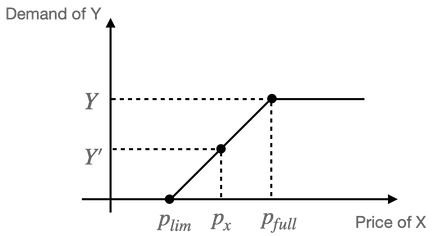
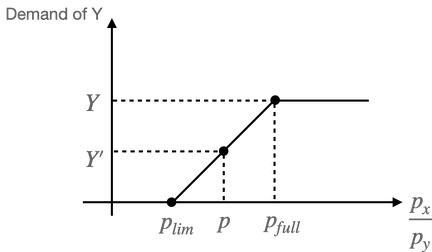
Address PR comments

Changed region(s): [[0.0, 0.0297, 1.0, 0.9788], [0.8125, 0.9195, 1.0, 1.0]]

diff --git a/core/cap-0045.md b/core/cap-0045.md
@@ -327,17 +327,19 @@ Consider a liquidity pool holding assets `X` and `Y` (we will also use `X` and
 `Y` to denote the reserves of those assets). Suppose the market price ratio is
 `p = p(X) / p(Y)`. 
 
+For a constant-product liquidity pool (the only type this proposal is concerned about), the constant-product invariant requires that any transaction within the pool must not reduce the the product of the two reserves (i.e. liquidity).
+
 The liquidity pool starts at equilibrium point `E`, with reserve amounts `X` and `Y` respectively. 
 
 The spot price of asset `X` is the amount of asset `Y` exchanged for infinitesimal quantity of `X`:
 
-<div align="center"><img style="background: white;" src="https://render.githubusercontent.com/render/math?math=p%20%3D%20%5Clim_%7B%5Cdelta%7Bx%7D-%3E0%7D%5Cfrac%7B%5Cdelta%7By%7D%7D%7B%5Cdelta%7Bx%7D%7D"></div>
+<div align="center"><img style="background: white;" src="https://render.githubusercontent.com/render/math?math=p%20%3D%20%5Clim_%7B%5Cdelta%7Bx%7D%5Cto0%7D%5Cfrac%7B%5Cdelta%7By%7D%7D%7B%5Cdelta%7Bx%7D%7D"></div>
 
-Consider the scenario where the market decides on a higher price for `X` than what is manifested in the current equilibrium `E`, the liquidity pool will buy `X` and sell `Y` until a new equilibrium is established (call it `E’`).
+Consider the scenario where the market decides on a lower price for `X` relative to `Y` than what is manifested in the current equilibrium `E`, the liquidity pool will buy `X` and sell `Y` until a new equilibrium is established (call it `E’`).
 
 ![liquidity pool demand buy X sell Y](../contents/cap-0045/CP_liquidity_pool_demand_buyX_sellY.png)
 
-From the constant-product invariant (since we only have constant-product liquidity pools), the pool will buy X sell Y as long as :
+From the constant-product invariant, the pool will buy X sell Y as long as :
 
 <div align="center"><img style="background: white;" src="https://render.githubusercontent.com/render/math?math=(X%20%2B%20(1-F)%5Cdelta%7Bx%7D)(Y-%5Cdelta%7By%7D)%5Cge%20XY"></div>
 
@@ -345,7 +347,7 @@ where <img style="transform: translateY(0.1em); background: white;" src="https:/
 
 <div align="center"><img style="background: white;" src="https://render.githubusercontent.com/render/math?math=-X%20%2B%20(1-F)%5Ccdot%5Cfrac%7B%5Cdelta%7Bx%7D%7D%7B%5Cdelta%7By%7D%7D%5Ccdot%20Y%5Cge%20(1-F)%5Cdelta%7Bx%7D"></div>
 
-Taking <img style="transform: translateY(0.1em); background: white;" src="https://render.githubusercontent.com/render/math?math=%5Clim_%7B%5Cdelta%7Bx%7D-%3E0%7D"> and using the price definition, we get:
+Taking <img style="transform: translateY(0.1em); background: white;" src="https://render.githubusercontent.com/render/math?math=%5Clim_%7B%5Cdelta%7Bx%7D%5Cto0%7D"> and using the price definition, we get:
 
 <div align="center"><img style="background: white;" src="https://render.githubusercontent.com/render/math?math=-X%20%2B%20(1-F)%5Ccdot%5Cfrac%7B1%7D%7Bp%7D%5Ccdot%20Y%20%5Cge%200"></div>
 
@@ -374,6 +376,10 @@ and <img style="transform: translateY(0.1em); background: white;" src="https://r
 
 Thus, the liquidity pool, as expected, sells `Y` and purchases `X`.
 
+In the reverse scenario, when the market decides on a higher price of `X` relative to `Y`, the pool needs to sell `X` and purchase `Y` to reach new equilibrium `E'` (figure below).
+
+![liquidity pool demand sell X buy Y](../contents/cap-0045/CP_liquidity_pool_demand_sellX_buyY.png)
+
 By the exact same notion, when <img style="transform: translateY(0.1em); background: white;" src="https://render.githubusercontent.com/render/math?math=%5Cfrac%7B1%7D%7Bp%7D%3C%5Cfrac%7B(1-F)X%7D%7BY%7D">, the demand for `X` and `Y` are:
 <div align="center"><img style="background: white;" src="https://render.githubusercontent.com/render/math?math=X'%3D%5Cfrac%7BpX%2BY%7D%7B(2-F)%5Ccdot%20p%7D"></div>
 <div align="center"><img style="background: white;" src="https://render.githubusercontent.com/render/math?math=Y'%3D%5Cfrac%7B(pX%2BY)(1-F)%7D%7B2-F%7D"></div>
@@ -387,57 +393,71 @@ When the price is in between, i.e. <img style="transform: translateY(0.1em); bac
 ### Demand from an order
 Tatonnement does not handle discontinuities well. The demand from an order is
 intrinsically discontinuous, so a natural solution is to smooth the demand. This
-can be achieved by linearly interpolating between the case where the order does
-not execute and the case where the order does execute.
+can be achieved by linearly interpolating the price-weighted demand between the case where the order does not execute and the case where the order does execute.
+
+It doesn't matter whether you linearly interpolate the asset sold or the asset bought. The two quantities are linearly related according to the budget
+constraint <img style="transform: translateY(0.1em); background: white;" src="https://render.githubusercontent.com/render/math?math=p_x%20x%20%2B%20p_y%20y%20%3D%20p_x%20x'%20%2B%20p_y%20y'">, so linear interpolation of one asset implies linear interpolation of the other.
+
+To fully illustrate the demand interpolation heuristics, consider an offer selling asset `X` (we also use `X` to denote the amount of asset `X` being offered) for asset `Y` at limit price <img style="transform: translateY(0.1em); background: white;" src="https://render.githubusercontent.com/render/math?math=p_%7Blim%7D%3DP">. At any point, the budget must be conserved (subject to a fee `F`):
+
+<div align="center"><img style="background: white;" src="https://render.githubusercontent.com/render/math?math=y%5Ccdot%20p_%7By%7D(1-F)%20%3D%20p_%7Bx%7D%5Ccdot%20x"></div>
+
+Define <img style="transform: translateY(0.1em); background: white;" src="https://render.githubusercontent.com/render/math?math=p%20%3D%20%5Cfrac%7Bp_x%7D%7Bp_y%7D">, the price ratio between `X` and `Y` (`p` is also equivalent to the price of `X` when `Y` is the denominated asset), we get:
+
+<div align="center"><img style="background: white;" src="https://render.githubusercontent.com/render/math?math=y(1-F)%3Dp%5Ccdot%20x"></div>
 
 The order cannot execute below its limit price. We designate some price above
 its limit price at which the order executes fully. The ratio between this
 price <img style="transform: translateY(0.1em); background: white;" src="https://render.githubusercontent.com/render/math?math=p_%7Bfull%7D"> and the limit price <img style="transform: translateY(0.1em); background: white;" src="https://render.githubusercontent.com/render/math?math=p_%7Blim%7D"> is a function of the smoothness parameter <img style="transform: translateY(0.1em); background: white;" src="https://render.githubusercontent.com/render/math?math=%5Csigma">.
 Specifically, <img style="transform: translateY(0.1em); background: white;" src="https://render.githubusercontent.com/render/math?math=%5Cfrac%7Bp_%7Bfull%7D%7D%7Bp_%7Blim%7D%7D%20%3D%20%5Cfrac%7B1%7D%7B(1-2%5E%7B-%5Csigma%7D)%7D">.
 
-It doesn't matter whether you linearly interpolate the asset sold or the asset bought. The two quantities are linearly related according to the budget
-constraint <img style="transform: translateY(0.1em); background: white;" src="https://render.githubusercontent.com/render/math?math=p_x%20x%20%2B%20p_y%20y%20%3D%20p_x%20x'%20%2B%20p_y%20y'">, so linear interpolation of one asset implies linear interpolation of the other.
 
-To derive the demand results in the previous section, consider an offer selling asset `X` (we also use `X` to denote the amount of `X` being offered) for asset `Y` at limit price <img style="transform: translateY(0.1em); background: white;" src="https://render.githubusercontent.com/render/math?math=p_%7Blim%7D%3DP">. At any point, the budget must be conserved (subject to a fee `F`):
+When <!-- $p \le p_{lim}$ --> <img style="transform: translateY(0.1em); background: white;" src="https://render.githubusercontent.com/render/math?math=p%20%5Cle%20p_%7Blim%7D">, no trade will happen, demand for `Y` is `0`, and demand for `X` is the full amount of `X` valued at <!-- $pX$ --> <img style="transform: translateY(0.1em); background: white;" src="https://render.githubusercontent.com/render/math?math=pX">.
 
-<div align="center"><img style="background: white;" src="https://render.githubusercontent.com/render/math?math=y%5Ccdot%20p_%7By%7D(1-F)%20%3D%20p_%7Bx%7D%5Ccdot%20x"></div>
+When <!-- $p \ge p_{full}$ --> <img style="transform: translateY(0.1em); background: white;" src="https://render.githubusercontent.com/render/math?math=p%20%5Cge%20p_%7Bfull%7D">, the entire amount `X` is traded for `Y`, thus demand for `Y` is <!-- $y = \frac{p \cdot X}{1-F}$ --> <img style="transform: translateY(0.1em); background: white;" src="https://render.githubusercontent.com/render/math?math=y%20%3D%20%5Cfrac%7Bp%20%5Ccdot%20X%7D%7B1-F%7D">, and demand for `X` is `0`.
 
-When <img style="transform: translateY(0.1em); background: white;" src="https://render.githubusercontent.com/render/math?math=p_x%20%5Cle%20p_%7Blim%7D">, no trade will happen, demand for `Y` is 0, and demand for `X` is the full amount of X valued at <img style="transform: translateY(0.1em); background: white;" src="https://render.githubusercontent.com/render/math?math=p_%7Bx%7DX">.
+For <!-- $p_{lim} < p < p_{full}$ --> <img style="transform: translateY(0.1em); background: white;" src="https://render.githubusercontent.com/render/math?math=p_%7Blim%7D%20%3C%20p%20%3C%20p_%7Bfull%7D">, the demands are linearly interpolated from the end points (see figure below):
+<!-- $$
+\frac{p - p_{lim}}{Y'} = \frac{p_{full}-p_{lim}}{Y}
+$$ --> 
 
-When <img style="transform: translateY(0.1em); background: white;" src="https://render.githubusercontent.com/render/math?math=p_%7Bx%7D%20%5Cge%20p_%7Bfull%7D">, the entire amount `X` is traded for `Y`, thus demand for `Y` is <img style="transform: translateY(0.1em); background: white;" src="https://render.githubusercontent.com/render/math?math=Y%20%3D%20%5Cfrac%7BX%5Ccdot%20p_x%7D%7Bp_y(1-F)%7D">, and demand for `X` is 0.
-
-For <img style="transform: translateY(0.1em); background: white;" src="https://render.githubusercontent.com/render/math?math=p_%7Blim%7D%20%3C%20p_x%20%3C%20p_%7Bfull%7D">, the demands are linearly interpolated from the end points (see figure below):
-
-<div align="center"><img style="background: white;" src="https://render.githubusercontent.com/render/math?math=%5Cfrac%7Bp_x%20-%20p_%7Blim%7D%7D%7BY'%7D%20%3D%20%5Cfrac%7Bp_%7Bfull%7D-p_%7Blim%7D%7D%7BY%7D"></div>
+<div align="center"><img style="background: white;" src="https://render.githubusercontent.com/render/math?math=%5Cfrac%7Bp%20-%20p_%7Blim%7D%7D%7BY'%7D%20%3D%20%5Cfrac%7Bp_%7Bfull%7D-p_%7Blim%7D%7D%7BY%7D"></div>
 
 ![offer demand sell X buy Y](../contents/cap-0045/offer_demand_sellX_buyY.png)
 
-Substituting <img style="transform: translateY(0.1em); background: white;" src="https://render.githubusercontent.com/render/math?math=p_%7Bfull%7D%20%3D%20%5Cfrac%7Bp_%7Blim%7D%7D%7B1-S%7D"> and <img style="transform: translateY(0.1em); background: white;" src="https://render.githubusercontent.com/render/math?math=Y%20%3D%20%5Cfrac%7BX%5Ccdot%20p_x%7D%7Bp_y(1-F)%7D">, rearrange, we get the demand for `Y`:
+Substituting <!-- $Y = \frac{p_{full}\cdot X}{1-F}$ --> <img style="transform: translateY(0.1em); background: white;" src="https://render.githubusercontent.com/render/math?math=Y%20%3D%20%5Cfrac%7Bp_%7Bfull%7D%5Ccdot%20X%7D%7B1-F%7D"> and <!-- $p_{full} = \frac{p_{lim}}{1-S}$ --> <img style="transform: translateY(0.1em); background: white;" src="https://render.githubusercontent.com/render/math?math=p_%7Bfull%7D%20%3D%20%5Cfrac%7Bp_%7Blim%7D%7D%7B1-S%7D">, rearrange, we get the demand for `Y`:
+<!-- $$
+Y' = \frac{(p-p_{lim})X}{S\cdot(1-F)}
+$$ --> 
 
-<div align="center"><img style="background: white;" src="https://render.githubusercontent.com/render/math?math=Y'%20%3D%20%5Cfrac%7B(p_x-p_%7Blim%7D)X%7D%7BS%5Ccdot%20p_y(1-F)%7D"></div>
+<div align="center"><img style="background: white;" src="https://render.githubusercontent.com/render/math?math=Y'%20%3D%20%5Cfrac%7B(p-p_%7Blim%7D)X%7D%7BS%5Ccdot(1-F)%7D"></div>
 
 Amount of `X` sold for `Y` is:
+<!-- $$
+\tilde{X} = \frac{Y'\cdot(1-F)}{p}=\frac{(p - p_{lim})X}{S\cdot p}
+$$ --> 
 
-<div align="center"><img style="background: white;" src="https://render.githubusercontent.com/render/math?math=%5Ctilde%7BX%7D%20%3D%20%5Cfrac%7BY'%5Ccdot%20p_%7By%7D(1-F)%7D%7Bp_x%7D%3D%5Cfrac%7B(p_x%20-%20p_%7Blim%7D)X%7D%7BS%5Ccdot%20p_x%7D"></div>
+<div align="center"><img style="background: white;" src="https://render.githubusercontent.com/render/math?math=%5Ctilde%7BX%7D%20%3D%20%5Cfrac%7BY'%5Ccdot(1-F)%7D%7Bp%7D%3D%5Cfrac%7B(p%20-%20p_%7Blim%7D)X%7D%7BS%5Ccdot%20p%7D"></div>
 
 And demand for `X`:
+<!-- $$
+X' = X - \tilde{X} = X - \frac{(p - p_{lim})X}{S\cdot p}
+$$ --> 
 
-<div align="center"><img style="background: white;" src="https://render.githubusercontent.com/render/math?math=X'%20%3D%20X%20-%20%5Ctilde%7BX%7D%20%3D%20X%20-%20%5Cfrac%7B(p_x%20-%20p_%7Blim%7D)X%7D%7BS%5Ccdot%20p_x%7D"></div>
+<div align="center"><img style="background: white;" src="https://render.githubusercontent.com/render/math?math=X'%20%3D%20X%20-%20%5Ctilde%7BX%7D%20%3D%20X%20-%20%5Cfrac%7B(p%20-%20p_%7Blim%7D)X%7D%7BS%5Ccdot%20p%7D"></div>
 
-Set <img style="transform: translateY(0.1em); background: white;" src="https://render.githubusercontent.com/render/math?math=F%3D0"> (we do not collect fees from the orders), replace <img style="transform: translateY(0.1em); background: white;" src="https://render.githubusercontent.com/render/math?math=p_%7Blim%7D"> with `P`, setting <img style="transform: translateY(0.1em); background: white;" src="https://render.githubusercontent.com/render/math?math=p_y%3D1"> (since `Y` is the denominated asset), and <img style="transform: translateY(0.1em); background: white;" src="https://render.githubusercontent.com/render/math?math=p_x%20%3D%20P">, we get for <img style="transform: translateY(0.1em); background: white;" src="https://render.githubusercontent.com/render/math?math=P%20%3C%20p%20%3C%20%5Cfrac%7BP%7D%7B1-S%7D">, the demands are:
+Setting <img style="transform: translateY(0.1em); background: white;" src="https://render.githubusercontent.com/render/math?math=F%3D0"> (we do not collect fees from the orders), and <!-- $p_{lim}=P$ --> <img style="transform: translateY(0.1em); background: white;" src="https://render.githubusercontent.com/render/math?math=p_%7Blim%7D%3DP">, we get for <img style="transform: translateY(0.1em); background: white;" src="https://render.githubusercontent.com/render/math?math=P%20%3C%20p%20%3C%20%5Cfrac%7BP%7D%7B1-S%7D">, the demands are:
 
 <div align="center"><img style="background: white;" src="https://render.githubusercontent.com/render/math?math=Y'%20%3D%20%5Cfrac%7B(p-P)X%7D%7BS%7D"></div>
 
 <div align="center"><img style="background: white;" src="https://render.githubusercontent.com/render/math?math=X'%20%3D%20X%20-%20%5Cfrac%7B(p-P)X%7D%7BS%5Ccdot%20p%7D"></div>
-
-Same results as before.
 
 ### Possible places of overflow
 As mentioned before, there are multiple places in the tatonnement process where overflowing an `int64_t` can occur:
 - Endowment: the total endowment of an asset is calculated by summing over endowments from all orders and liquidity pools of that asset.
 - Demand from an offer and liquidity pool: both offer and liquidity pool demand formulas contain `p*X` terms, where `p` is the price (`int64_t`) and `X` is the offer amount (`int64_t`) or the liquidity pool reserve amount (`int64_t`).
 - `step`: calculating the price update step involves multiplying the price (`int64_t`) by the net demand (`int64_t`).
-- The objective heuristics: the objective takes the squared l2-norm of price weighted demand, which has upper bound of `2 * (64 + 64) + 32 = 288 bits`. If we reduce the price to `int32_t`, it'll still take `2*(32+64) +32 = 224 < 256 bits` to represent its value. 
+- The objective heuristics: the objective takes the squared l2-norm of price weighted demand, which has upper bound of `2 * (64 + 64) + 32 = 288 bits`. 
 
 ## Protocol Upgrade Transition
 
